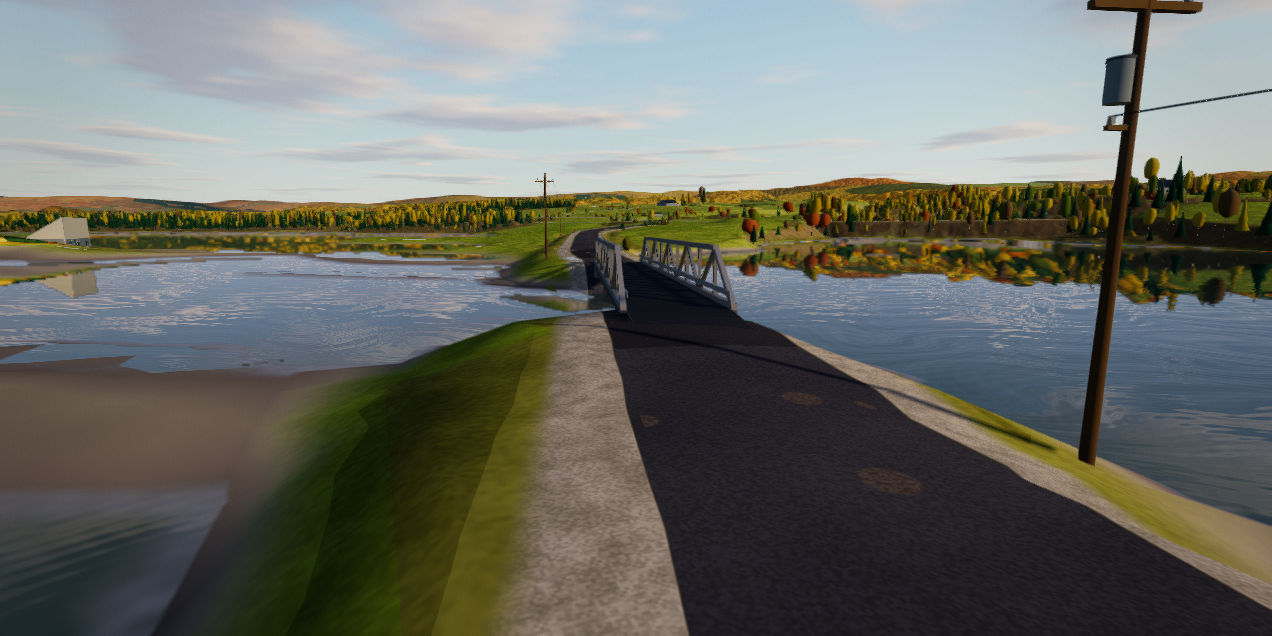
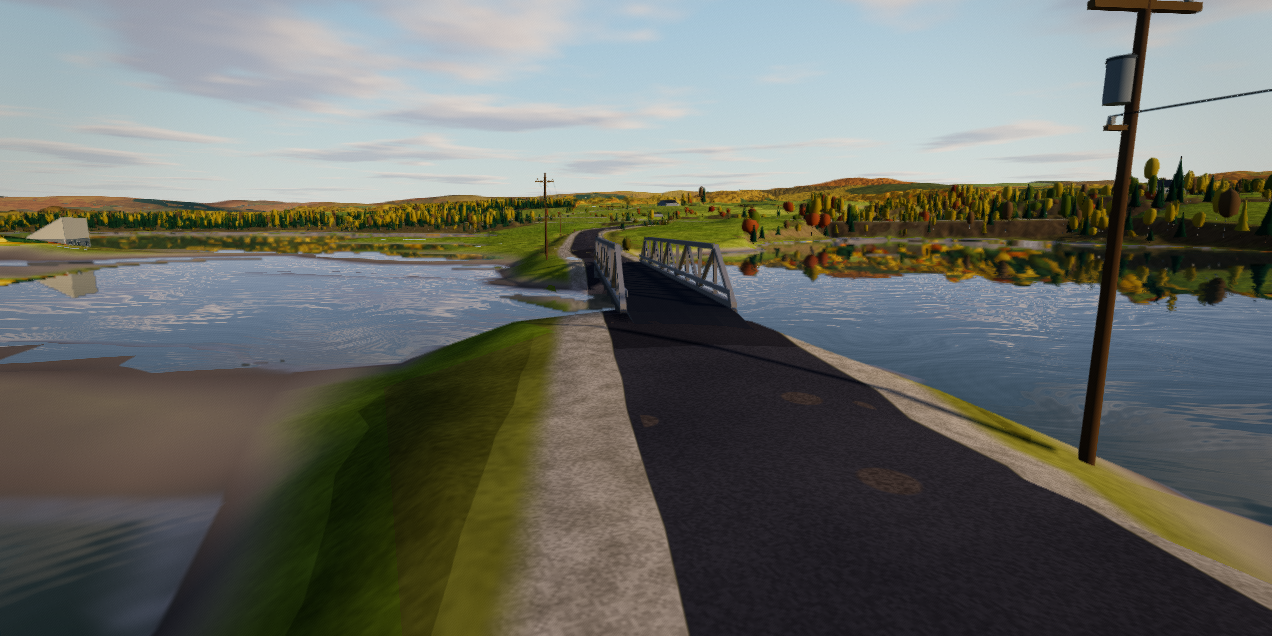
Clear bridge seams above bank, skip off-deck work, and test Mabou gate

diff --git a/web/src/november-bridges.ts b/web/src/november-bridges.ts
@@ -1,5 +1,6 @@
 import * as THREE from 'three';
 import type { Guardrails } from './guardrails';
+import { littleMabouMarshRail } from './november-road-details';
 import type { Solid } from './parked';
 import type { Road } from './roads';
 import type { VehicleSpec } from './vehicle-spec';
@@ -89,6 +90,25 @@ export function littleMabouPonyTruss(road: Road): Road {
   return { ...road, ponyTruss: true };
 }
 
+/** Apply modern Mabou road overrides (marsh guardrail and Little Mabou pony-truss bridges). */
+export function mabouRoadOverrides(roads: readonly Road[], modern: boolean, areaId: string): Road[] {
+  if (!modern || areaId !== 'mabou') return roads as Road[];
+  return roads.map(littleMabouMarshRail).map(littleMabouPonyTruss);
+}
+
+/** Fast zero-allocation bounds test for a pony-truss span and its 3 m aprons, run before deck construction. */
+export function inPonyTrussBounds(road: Road, x: number, z: number): boolean {
+  const a = road.pts[0], b = road.pts[road.pts.length - 1];
+  const dx = b[0] - a[0], dz = b[1] - a[1], len2 = dx * dx + dz * dz;
+  if (!len2) return false;
+  const span = Math.sqrt(len2);
+  const along = ((x - a[0]) * dx + (z - a[1]) * dz) / span;
+  const ap = PONY_TRUSS.approach;
+  if (along < -ap || along > span + ap) return false;
+  const across = (-(x - a[0]) * dz + (z - a[1]) * dx) / span;
+  return Math.abs(across) <= PONY_TRUSS.clearHalf;
+}
+
 /**
  * Exact wheel support on a pony-truss bridge and its 3 m approach aprons.
  * Evaluates the exact same triangle mesh surface built by buildPonyTrussBridge() (zero divergence, zero allocations).
@@ -167,15 +187,15 @@ export function registerRailContacts(
 
 /**
  * Build one merged vertex-coloured geometry for a narrow one-lane grey steel pony-truss bridge and its 3 m approach aprons.
- * Returns both the geometry and the exact apron height grids shared with ponyTrussDeckHeight().
+ * Returns the geometry, exact apron height grids, and bank-cleared end elevations shared with ponyTrussDeckHeight().
  */
 export function buildPonyTrussBridge(
   pts: readonly [number, number][],
-  y0: number,
-  y1: number,
+  rawY0: number,
+  rawY1: number,
   len: number,
   heightAt: (x: number, z: number) => number | null,
-): { geometry: THREE.BufferGeometry; aprons: PonyTrussAprons } {
+): { geometry: THREE.BufferGeometry; aprons: PonyTrussAprons; y0: number; y1: number } {
   const m = new Mesher();
   const a = pts[0], b = pts[pts.length - 1];
   const dx = b[0] - a[0], dz = b[1] - a[1];
@@ -183,6 +203,16 @@ export function buildPonyTrussBridge(
   const ux = dx / span, uz = dz / span;
   const yaw = Math.atan2(-uz, ux);
   const mx = (a[0] + b[0]) / 2, mz = (a[1] + b[1]) / 2;
+  const clearHalf = PONY_TRUSS.clearHalf;
+  // Lift either span end above the highest bank vertex across its seam so apron and steel deck meet with zero step.
+  let y0 = rawY0, y1 = rawY1;
+  for (let j = 0; j <= APRON_ACROSS_STEPS; j++) {
+    const across = -clearHalf + (2 * clearHalf * j) / APRON_ACROSS_STEPS;
+    const h0 = heightAt(a[0] - uz * across, a[1] + ux * across);
+    if (h0 !== null && h0 + 0.02 > y0) y0 = h0 + 0.02;
+    const h1 = heightAt(b[0] - uz * across, b[1] + ux * across);
+    if (h1 !== null && h1 + 0.02 > y1) y1 = h1 + 0.02;
+  }
   const dy = y1 - y0, slope = Math.atan2(dy, span);
   const deckY = (s: number) => y0 + dy * (s / span);
 
@@ -199,7 +229,6 @@ export function buildPonyTrussBridge(
   const deckLen = Math.hypot(span, dy);
 
   // Asphalt deck top and steel deck slab between the two trusses.
-  const clearHalf = PONY_TRUSS.clearHalf;
   const deckThick = PONY_TRUSS.deckThickness;
   const fasciaTop = -0.025;
   const fasciaBottom = fasciaTop - deckThick;
@@ -321,5 +350,5 @@ export function buildPonyTrussBridge(
     }
   }
 
-  return { geometry: m.geometry(), aprons: { start: startGrid, end: endGrid } };
+  return { geometry: m.geometry(), aprons: { start: startGrid, end: endGrid }, y0, y1 };
 }

diff --git a/web/src/roads.ts b/web/src/roads.ts
@@ -4,7 +4,7 @@ import * as THREE from 'three';
 import type { Terrain } from './terrain';
 import { eraRoadHalf } from './era';
 import { timberBridge, periodBridgePlane, prepareTimberPlans, timberPlan, timberGroundPoints } from './eras/timber-bridge';
-import { buildPonyTrussBridge, ponyTrussDeckHeight, type PonyTrussAprons } from './november-bridges';
+import { buildPonyTrussBridge, inPonyTrussBounds, ponyTrussDeckHeight, type PonyTrussAprons } from './november-bridges';
 
 export interface Road {
   id: number;
@@ -185,6 +185,7 @@ export class Roads {
     const hit = this.query(this.bridgeCells, x, z, 12, bridgeRoad);
     if (!hit) return null;
     if (!this.terrain.cartRoads && !hit.road.ponyTruss && hit.dist > hit.road.halfWidth + 1.2) return null;
+    if (!this.terrain.cartRoads && hit.road.ponyTruss && !inPonyTrussBounds(hit.road, x, z)) return null;
     const deck = this.deck(hit.road);
     if (!deck) return null;
     if (!this.terrain.cartRoads && hit.road.ponyTruss && deck.aprons) return ponyTrussDeckHeight(hit.road, deck.y0, deck.y1, x, z, deck.aprons);
@@ -243,11 +244,13 @@ export class Roads {
     }
     const cum = [0];
     for (let i = 1; i < n; i++) cum.push(cum[i - 1] + Math.hypot(p[i][0] - p[i - 1][0], p[i][1] - p[i - 1][1]));
-    const len = cum[n - 1] || 1, y0 = s0.ground + 0.05, y1 = s1.ground + 0.05;
+    const len = cum[n - 1] || 1;
+    let y0 = s0.ground + 0.05, y1 = s1.ground + 0.05;
     let mesh: THREE.Mesh;
     let aprons: PonyTrussAprons | undefined;
     if (road.ponyTruss) {
       const built = buildPonyTrussBridge(p, y0, y1, len, this.readTerrainHeight);
+      y0 = built.y0; y1 = built.y1;
       aprons = built.aprons;
       this.periodMat ??= new THREE.MeshLambertMaterial({ vertexColors: true, side: THREE.DoubleSide });
       mesh = new THREE.Mesh(built.geometry, this.periodMat);

diff --git a/web/src/main.ts b/web/src/main.ts
@@ -28,8 +28,8 @@ import * as THREE from 'three';
 import { ABOUT_URL } from './credits';
 import { Sky } from 'three/examples/jsm/objects/Sky.js';
 import { baxtersCoveBuildingArt, isHillsideBuilding, littleMabouBuildingArt, NovemberBuildings } from './november-buildings';
-import { littleMabouMarshRail, NovemberRoadDetails } from './november-road-details';
-import { littleMabouPonyTruss, registerRailContacts } from './november-bridges';
+import { NovemberRoadDetails } from './november-road-details';
+import { mabouRoadOverrides, registerRailContacts } from './november-bridges';
 import { Buildings, buildingSites, buildingAppearance, readBuildingStyles, roofSites, type Building } from './buildings';
 import { Animals, CatTileUnread } from './animals';
 import { loadAreaManifest, roadStart, utm20ToLatLon } from './area';
@@ -611,7 +611,7 @@ if (waterReflections) {
   Object.assign(terrain.uniforms, waterReflections.uniforms);
 }
 
-const roadLines = ERA.modern && AREA.id === 'mabou' ? roadData.roads.map(littleMabouMarshRail).map(littleMabouPonyTruss) : roadData.roads;
+const roadLines = mabouRoadOverrides(roadData.roads, ERA.modern, AREA.id);
 const roads = new Roads({ roads: novemberRoads?.added.length ? [...roadLines, ...novemberRoads.added] : roadLines }, manifest.village, terrain);
 const culvertMouths = ERA.modern && terrain.streams
   ? new StreamCulverts(terrain.streams, roads.roads, (x, z) => { const s = terrain.surfaceAt(x, z); return s && s.level >= 8 ? s.ground : null; }, LOW, () => terrain.dataRevision)
